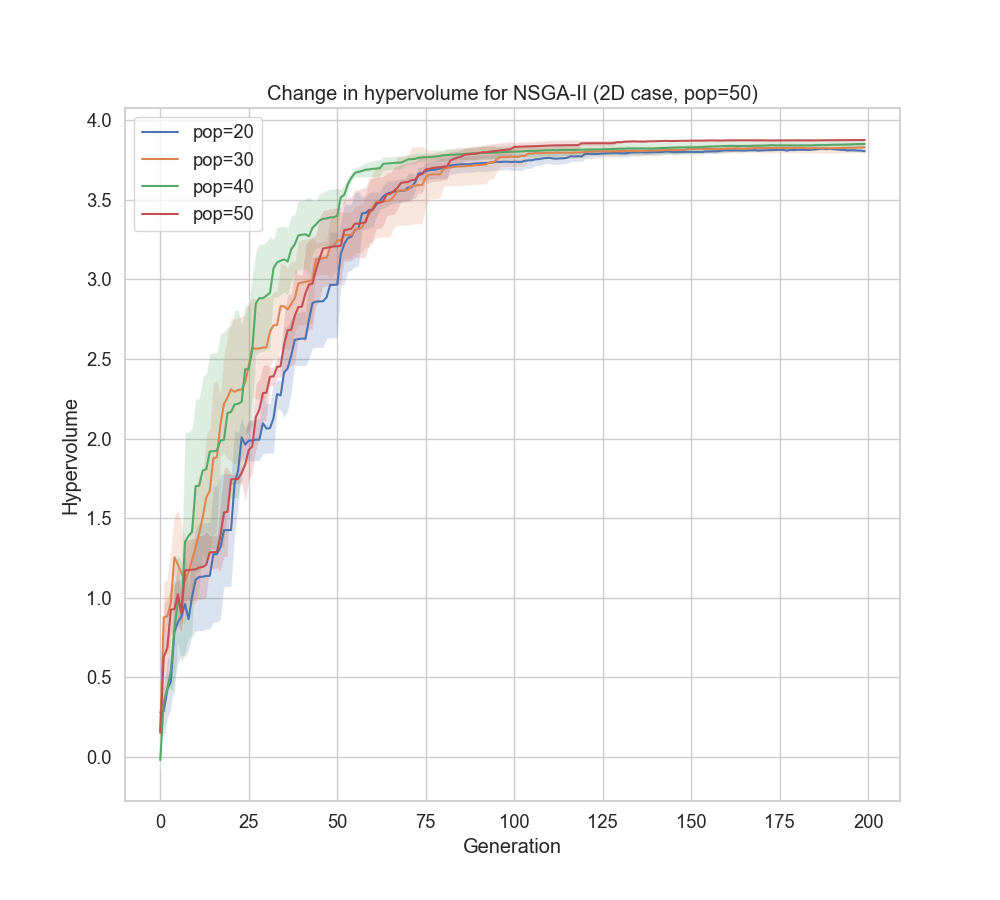
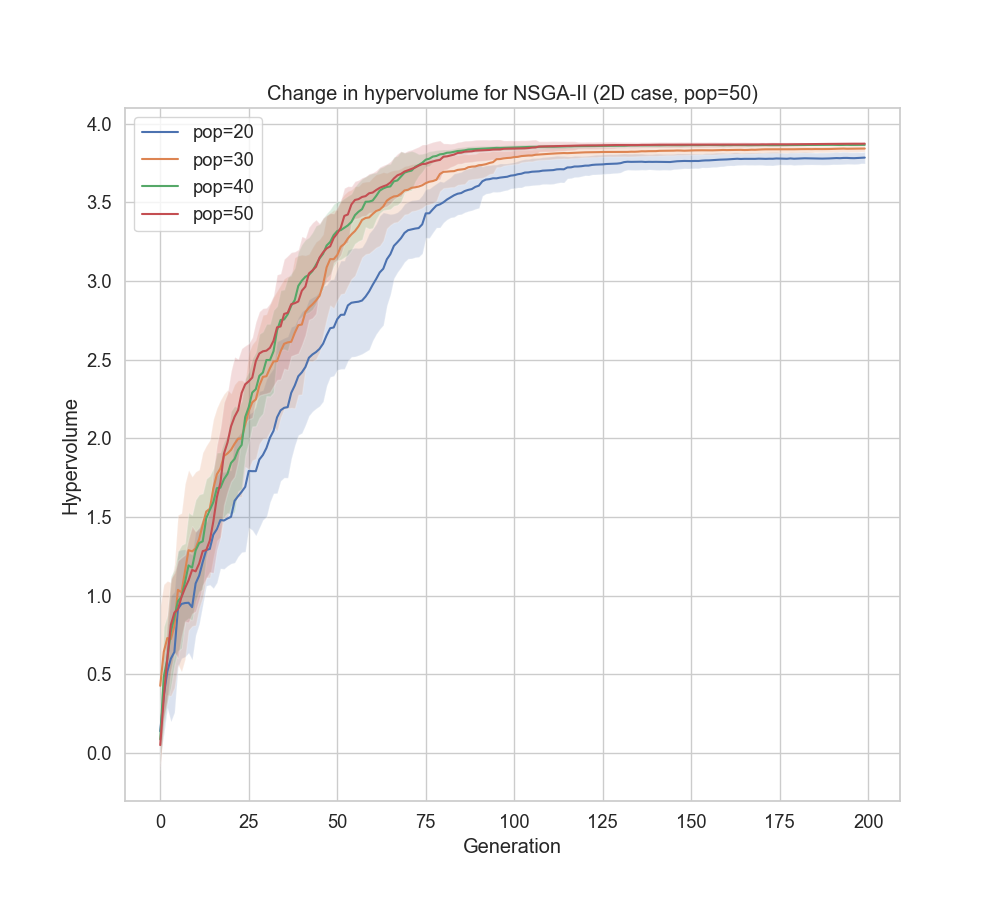
Fixed

diff --git a/report2.html b/report2.html
@@ -16,6 +16,7 @@
 <img src="figs/pop_history_3d_view_7.gif"><br>
 <img src="figs/sensitivity_2D.png"><br>
 <img src="figs/sensitivity_3D.png"><br>
-
+<img src="figs/crossover_proof.png"><br>
+<img src="figs/mutation_proof.png"><br>
 </body>
 </html> 

diff --git a/lab02.py b/lab02.py
@@ -73,8 +73,8 @@ for i in range(n_samples):
 
 
 pop_sizes = [20, 30, 40, 50]
-gen_sizes = [50 , 100, 150, 200]
-n_repeats = 3
+gen_sizes = [100, 150, 200]
+n_repeats = 10
 populations_2d = []
 
 for pop_size in pop_sizes:
@@ -239,7 +239,7 @@ ax.scatter(initial_solution[0], initial_solution[1], initial_solution[2],
            label="initial", s=100)
 
 # Plot mutated points
-ax.scatter(x, y, z, label="mutated")
+ax.scatter(x, y, z, label="Mutated")
 
 # Labels (optional but helpful)
 ax.set_xlabel("X")
@@ -250,6 +250,7 @@ ax.set_ylim(0, 1)
 ax.set_zlim(0, 1)
 plt.legend()
 plt.title("Mutation")
+plt.savefig("figs/mutation_proof.png")
 plt.show()
 
 p1 = get_random_solution(3)
@@ -275,7 +276,7 @@ ax = fig.add_subplot(111, projection='3d')
 ax.scatter([p1[0], p2[0]], [p1[1], p2[1]], [p1[2], p2[2]],
            label="initial", s=100)
 
-ax.scatter(x, y, z, label="mutated")
+ax.scatter(x, y, z, label="Offspring")
 
 ax.set_xlabel("X")
 ax.set_ylabel("Y")
@@ -285,6 +286,7 @@ ax.set_ylim(0, 1)
 ax.set_zlim(0, 1)
 plt.legend()
 plt.title("Crossover operator")
+plt.savefig("figs/crossover_proof.png")
 plt.show()
 
 

diff --git a/lab02utils.py b/lab02utils.py
@@ -299,10 +299,6 @@ def debug3d(population_history, stocks_expected_return, stocks_covariance):
         (20, 135),
         (20, 225),
         (20, 315),
-        (90, 0),        # looking down
-        (-90, 0),    # looking up
-        (0, 180),      # from left side
-        (0, 0),       # from right side
     ]
 
     for i, (elev, azim) in enumerate(views):
@@ -318,7 +314,6 @@ def debug3d(population_history, stocks_expected_return, stocks_covariance):
         ax.set_ylim(np.min(y), np.max(y))
         ax.set_zlim(np.min(z), np.max(z))
 
-        # Set camera view
         ax.view_init(elev=elev, azim=azim)
 
         def update(frame):
